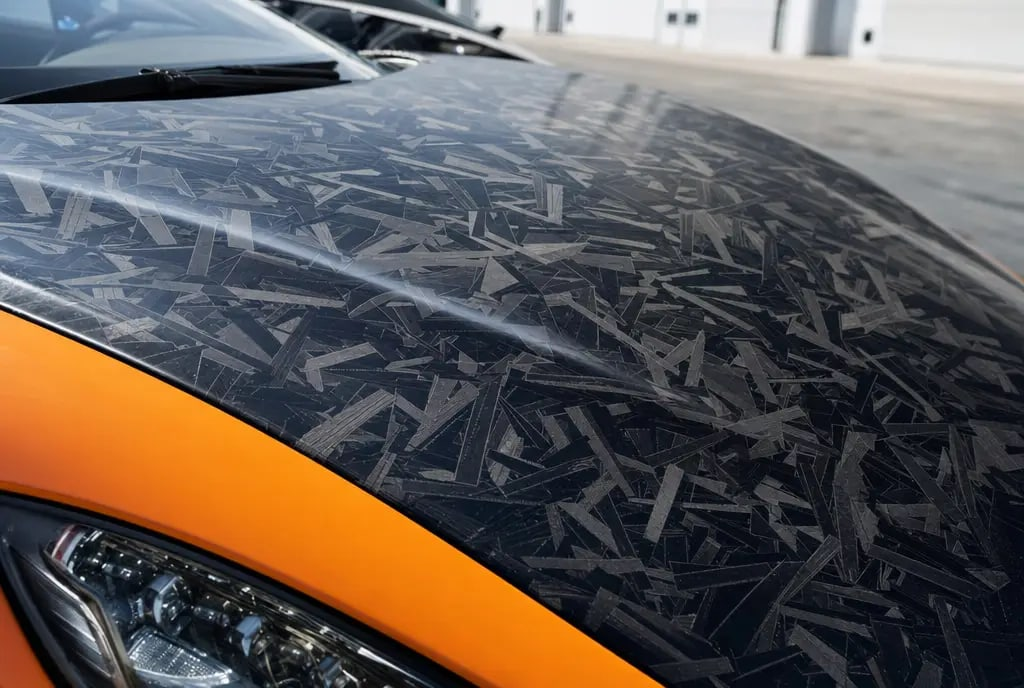
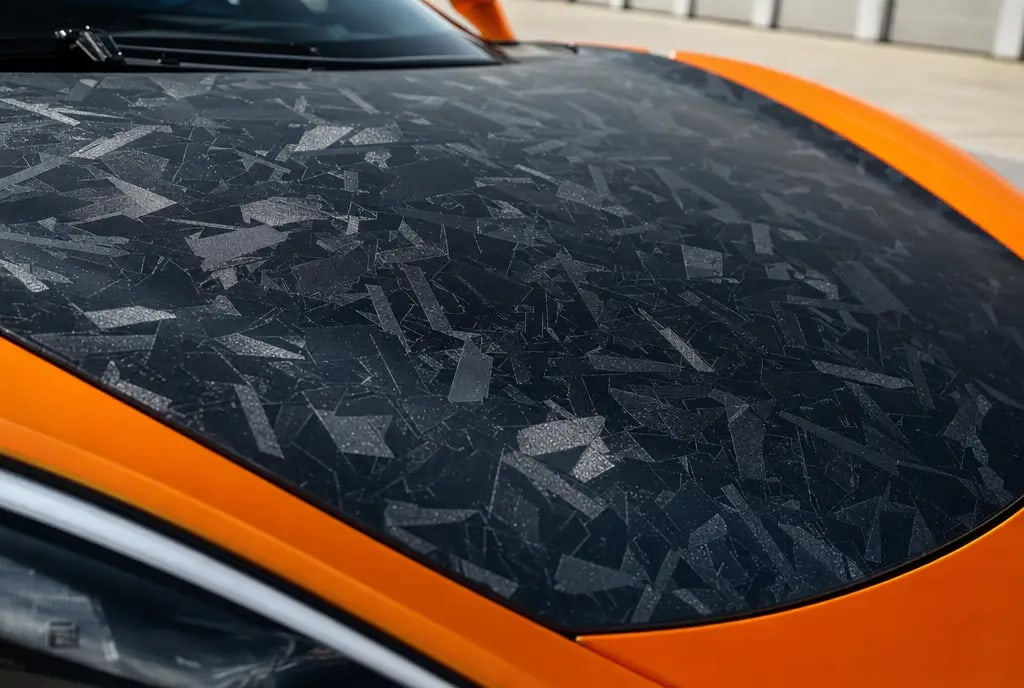
fix(egf-018): refaz fotos e capa no acabamento certo (fosco com flake metalico nos estilhacos) EGF 018 Forged Carbon

diff --git a/docs/STATUS_CORES_SPEED.md b/docs/STATUS_CORES_SPEED.md
@@ -42,7 +42,7 @@ pasta · `✅ ` = fotos e capa 100% no site. Ex.: `✅ EDG-020 LIQUID METAL RUBY
 | EGF-013 | MATTE FORGED CARBON PURPLE PET | ✅ 30/09 | ✅ 01/10 — lascas violeta H 266–284 (S ~48) **`#5A3A80`** sobre base `#161020`; **fosco** | ✅ 01/10 — **B** aprovado (`1084225e`) | ✅ 01/10 — aprovadas: closes foscos + capa fosca com o padrão; sem correção | ✅ 01/10 — commit `b006d98`, 5 mídias, conferido no ar; pasta ✅ |
 | EGF-006 | GLOSS FORGED CARBON SILVER PET | ✅ 30/09 | ✅ 01/10 — lascas prata-grafite sobre preto, brilhante; textura do cartão `f9657486` | ✅ 01/10 — **B** aprovado (`caa2f9ea`) | ✅ 01/10 — aprovadas: closes + capa com o padrão; sem correção | ✅ 01/10 — commit `01b512e`, 5 mídias (capa antiga substituída, conferida por hash no ar), nome corrigido no ar; pasta ✅ |
 | EGF-017 | SHADOW BLACK | ✅ 30/09 | ✅ 01/10 — camuflagem preta: manchas preto brilhante × cinza-chumbo acetinado; textura `d0cfb72b` | ✅ 01/10 — **B** aprovado (`5165d1d4`) | ✅ 01/10 — aprovadas: closes + macro brilho × acetinado + capa camuflada | ✅ 01/10 — commit `3eb9121` (deploy demorou; registro no banco na 2ª rodada), 5 mídias, conferido no ar; pasta ✅ |
-| EGF-018 | FORGED CARBON | ✅ 30/09 | ✅ 01/10 — estilhaços angulosos cinza/preto (não retangulares como os outros forjados), brilhante; textura `5980816d` | ✅ 01/10 — **B** aprovado (`3556e017`; eu tinha recomendado A) | ✅ 01/10 — aprovadas: closes + capa com os estilhaços | ✅ 01/10 — commit `2ff4491`, 5 mídias, conferido no ar; pasta ✅ |
+| EGF-018 | FORGED CARBON | ✅ 30/09 | ⚠ 01/10 — **leitura errada na 1ª publicação**: tratei como brilhante; o João corrigiu: é **fosco com flake metálico** nos estilhaços (base preta aveludada). Novo recorte `3f26a272` | ✅ 01/10 — refeito fosco; **B** aprovado (`ee02ef0e`) | ⏳ 01/10 — prévia refeita no acabamento certo (fosco + flake metálico): capô, retrovisor + teto `f0340e89`, teto `97ce4f7d`, macro `036d8721`, capa `35ca16ca` (rolo fosco); aguardando o João para substituir no site | ⚠ no ar com acabamento errado (commit `2ff4491`); vai ser substituído; pasta volta para 🟢 até corrigir |
 | ESG-004 | SUPER GLOSS FERRARI RED PET | ✅ 01/10 | ✅ 01/10 — à mão: H 356–1 · S 84–97 · V ~88 → vermelho vivo levemente alaranjado **`#E31E14`** (cor no teto: sem correção) | ✅ 01/10 — **B** aprovado (`0e479703`) | ✅ 01/10 — aprovadas (H 359–5 · S 92–99; capa V 89); sem correção | ✅ 01/10 — commit `70cfffc`, 5 mídias (capa antiga substituída), conferido no ar; pasta ✅ |
 
 **Cadastradas no NZERP em 01/10** (eram as "fora do NZERP" com amostra no Drive): nome lido no rótulo do

diff --git a/docs/FOTOS_DE_COR_AUTOMOTIVA.md b/docs/FOTOS_DE_COR_AUTOMOTIVA.md
@@ -580,6 +580,17 @@ sheen") junto com o recorte do cartão; o macro mostra a borda entre uma mancha 
 acetinada, que é o que vende o produto. Regra: na linha EGF, olhar o cartão antes de escrever —
 forjado retangular, forjado em estilhaço (EGF-018) e camuflagem pedem descrições diferentes.
 
+### Forjado fosco com flake metálico: não é gloss (EGF-018, 01/10)
+
+A EGF-018 Forged Carbon foi publicada com "high-gloss clear coat over everything" e o João reprovou:
+**o material é fosco**. No cartão, a base entre os estilhaços é preta fosca, aveludada, sem reflexo;
+só os estilhaços têm um **flake metálico** que acende em cinza-prateado onde bate a luz — o mesmo
+brilho das manchas acetinadas da EGF-017, que tinha saído certo. O que enganou: no cartão segurado
+contra o sol os estilhaços refletem forte e parecem verniz. Regra: em carbono, separar **a base**
+(fosca ou brilhante?) do **flake das lascas** (metálico ou liso?) e escrever as duas coisas no prompt;
+o recorte de textura tem que mostrar a base fosca (EGF-018 v2: `3f26a272`). Na dúvida, perguntar
+ao João o acabamento antes do piloto.
+
 ### Família de correção que cruza o vermelho pinta a lanterna (EMT-024, 01/10)
 
 A `malva` (300–5) cruza 0 grau. Num carro rosa, ela corrige o rosa **e** puxa a lanterna
